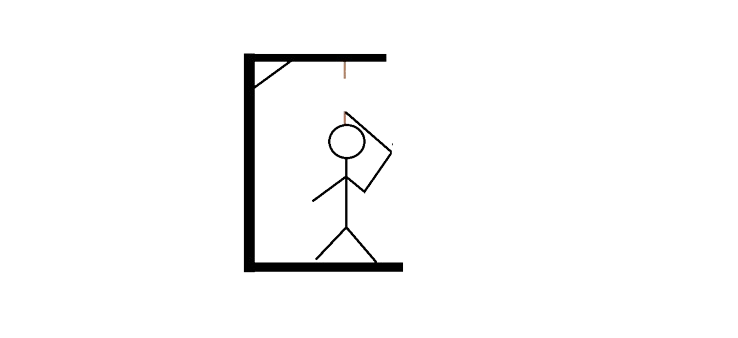
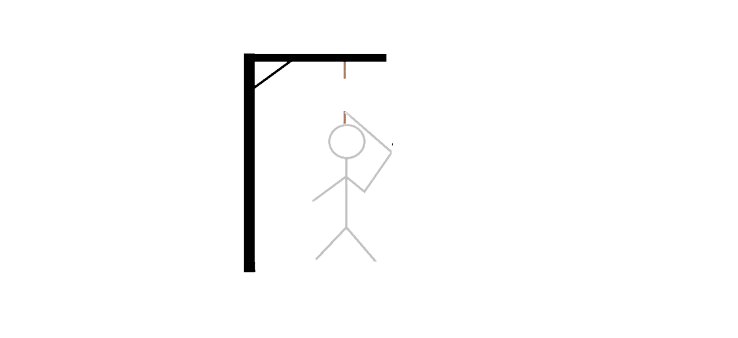
muutettu ukkelin väriä jotta se ei "liho"

Changed region(s): [[0.4363, 0.3254, 0.5298, 0.7396], [0.3428, 0.7396, 0.561, 0.8284], [0.4051, 0.5621, 0.4363, 0.5917]]

diff --git a/main.py b/main.py
@@ -200,7 +200,7 @@ class Hirsipuu:
 
     def piirra_hirsipuu(self):
         kuva = hirsipuu_kuvat[self.pelitilanne]
-        naytto.blit(kuva,(leveys //2 - kuva.get_width() // 2, 50))
+        naytto.blit(kuva,(leveys //2 - kuva.get_width() // 2, 60))
 
     def piira_arvattava_sana(self):
         arvattava_sana = fontti2.render(" ".join(self.arvattava_sana), True, (25, 255, 0))
